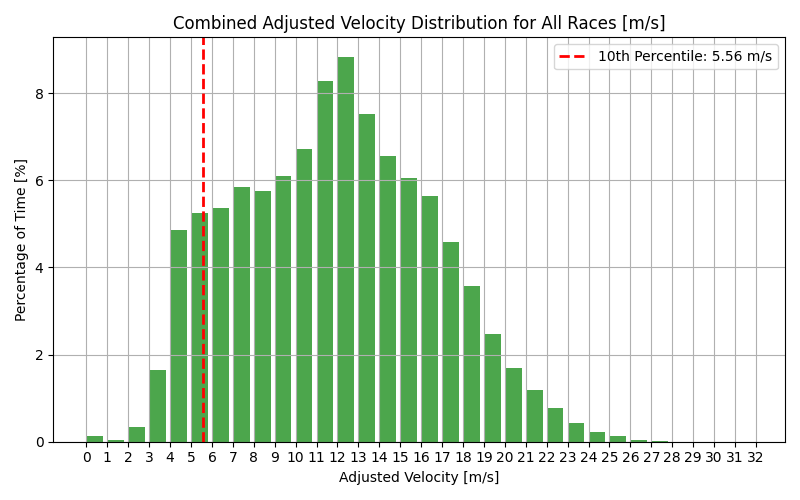
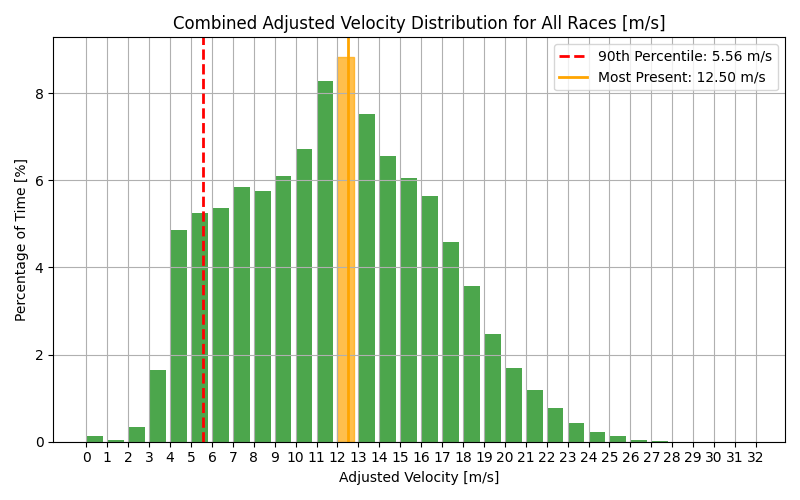
update velocity profile

Changed region(s): [[0.4062, 0.09, 0.4688, 0.9], [0.6875, 0.09, 0.9688, 0.18]]

diff --git a/StravaFiles/velocity_distribution.py b/StravaFiles/velocity_distribution.py
@@ -39,21 +39,24 @@ def air_density_isa(h):
     return rho
 
 
-def plot_race_velocities(output_folder="StravaFiles/Output", show=False, unit_ms=True,percentile_value_input = 10):
+def plot_race_velocities(output_folder="StravaFiles/Output", show=False, unit_ms=True, percentile_value_input=10, adjust_velocity=True):
     print("---------Plot Race Results---------")
     races = make_race_dictionnary()
 
     all_adjusted_velocities = []
-    percentile_value = 100-percentile_value_input
+    percentile_value = 100 - percentile_value_input
 
     for race_name, race_data in races.items():
         print(f"---------{race_name}---------")
         for index, row in race_data.iterrows():
             velocity_smooth = row[" velocity_smooth"]
-            grade_smooth = np.arctan(row[" grade_smooth"] / 100)
-            altitude = row[" altitude"]
-            rho = air_density_isa(altitude)
-            adjusted_velocity = velocity_smooth * np.sqrt(rho / np.cos(grade_smooth))
+            if adjust_velocity:
+                grade_smooth = np.arctan(row[" grade_smooth"] / 100)
+                altitude = row[" altitude"]
+                rho = air_density_isa(altitude)
+                adjusted_velocity = velocity_smooth * np.sqrt(rho / np.cos(grade_smooth))
+            else:
+                adjusted_velocity = velocity_smooth
             if not unit_ms:
                 adjusted_velocity *= 3.6
             all_adjusted_velocities.append(adjusted_velocity)
@@ -79,16 +82,24 @@ def plot_race_velocities(output_folder="StravaFiles/Output", show=False, unit_ms
     percentages = (counts / total) * 100 if total > 0 else counts
     ax.clear()
     bar_width = bin_width * (1 - bar_gap)
-    ax.bar(bins[:-1] + bar_width/2, percentages, width=bar_width, alpha=0.7, color='green', align='center')
+    bars = ax.bar(bins[:-1] + bar_width/2, percentages, width=bar_width, alpha=0.7, color='green', align='center')
     title_unit = "m/s" if unit_ms else "km/h"
-    ax.set_title(f"Combined Adjusted Velocity Distribution for All Races [{title_unit}]")
-    ax.set_xlabel(f"Adjusted Velocity [{title_unit}]")
+    ax.set_title(f"Combined {'Adjusted ' if adjust_velocity else ''}Velocity Distribution for All Races [{title_unit}]")
+    ax.set_xlabel(f"{'Adjusted ' if adjust_velocity else ''}Velocity [{title_unit}]")
     ax.set_ylabel("Percentage of Time [%]")
     ax.set_xticks(bin_edges)
     ax.grid(True)
 
     # Plot the percentile line and annotate
-    ax.axvline(percentile_velocity, color='red', linestyle='--', linewidth=2, label=f"{percentile_value}th Percentile: {percentile_velocity:.2f} {title_unit}")
+    ax.axvline(percentile_velocity, color='red', linestyle='--', linewidth=2, label=f"{percentile_value_input}th Percentile: {percentile_velocity:.2f} {title_unit}")
+
+    # Find and highlight the bin with the most coverage
+    if len(percentages) > 0:
+        max_bin_idx = np.argmax(percentages)
+        most_present_velocity = (bins[max_bin_idx] + bins[max_bin_idx + 1]) / 2
+        bars[max_bin_idx].set_color('orange')
+        ax.axvline(most_present_velocity, color='orange', linestyle='-', linewidth=2, label=f"Most Present: {most_present_velocity:.2f} {title_unit}")
+
     ax.legend()
 
     plt.tight_layout()
@@ -96,9 +107,10 @@ def plot_race_velocities(output_folder="StravaFiles/Output", show=False, unit_ms
         os.makedirs(output_folder)
     plt.savefig(os.path.join(output_folder, "all_races_velocity_histogram.png"))
 
+
     plt.show()
     plt.close()
     print("Done")
 
 if __name__ == "__main__":
-    plot_race_velocities(show = False)
+    plot_race_velocities(output_folder="StravaFiles/Output", show=False, unit_ms=True,percentile_value_input = 90,adjust_velocity=True)
